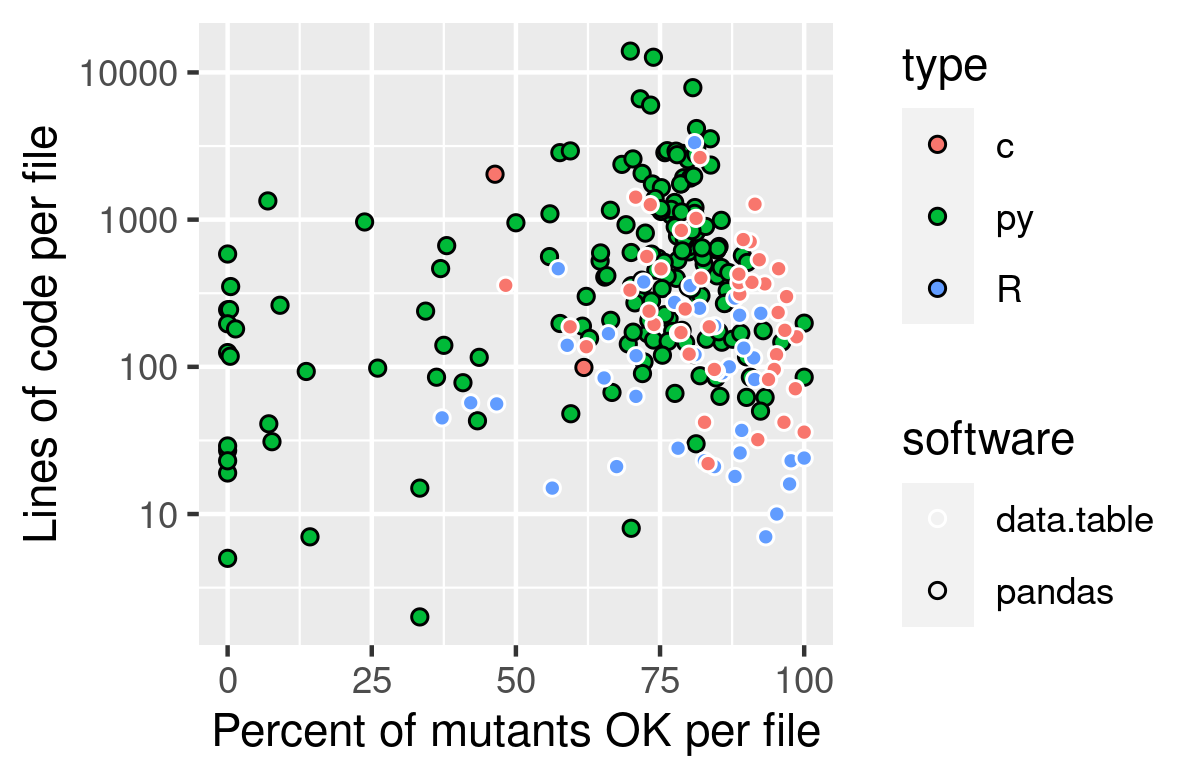
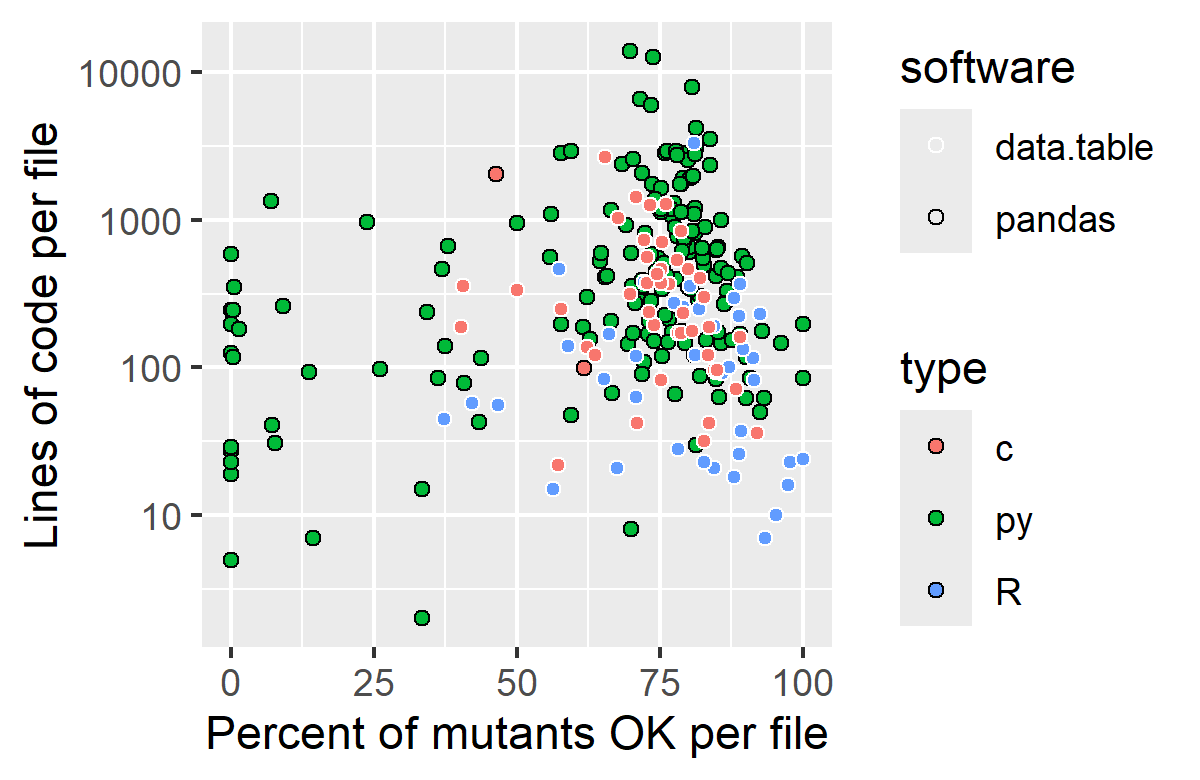
update data 04 01

diff --git a/results-figures/table-summary.tex b/results-figures/table-summary.tex
@@ -1,5 +1,5 @@
-% latex table generated in R 4.3.2 by xtable 1.8-4 package
-% Thu Mar 28 23:48:46 2024
+% latex table generated in R 4.4.0 by xtable 1.8-4 package
+% Wed Apr  3 16:24:11 2024
 \begin{tabular}{llrrrrrrrrr}
   \hline
 Software & Type & Files & Lines & Lines/File & Mutated & M\% & Mutants/Line & Mutants & MutantsOK & MOK\% \\ 
@@ -8,7 +8,7 @@ pandas & py & 168 & 161,380 & 960.6 & 46,089 & 28.6 & 2.9 & 132,614 & 95,962 & 7
   pandas & c &  5 & 2,666 & 533.2 & 1,313 & 49.2 & 6.2 & 8,090 & 3,893 & 48.1 \\ 
   pandas & total & 173 & 164,046 & 948.2 & 47,402 & 28.9 & 3.0 & 140,704 & 99,855 & 71.0 \\ 
   data.table & R & 40 & 8,354 & 208.8 & 6,336 & 75.8 & 5.4 & 34,146 & 26,928 & 78.9 \\ 
-  data.table & c & 43 & 18,037 & 419.5 & 12,178 & 67.5 & 7.4 & 89,920 & 74,373 & 82.7 \\ 
-  data.table & total & 83 & 26,391 & 318.0 & 18,514 & 70.2 & 6.7 & 124,066 & 101,301 & 81.7 \\ 
+  data.table & c & 43 & 18,037 & 419.5 & 12,178 & 67.5 & 7.4 & 89,920 & 65,078 & 72.4 \\ 
+  data.table & total & 83 & 26,391 & 318.0 & 18,514 & 70.2 & 6.7 & 124,066 & 92,006 & 74.2 \\ 
    \hline
 \end{tabular}

diff --git a/results-figures/table-useful-checks.tex b/results-figures/table-useful-checks.tex
@@ -1,5 +1,5 @@
-% latex table generated in R 4.3.2 by xtable 1.8-4 package
-% Fri Mar 29 00:01:22 2024
+% latex table generated in R 4.4.0 by xtable 1.8-4 package
+% Wed Apr  3 16:24:39 2024
 \begin{tabular}{lr}
   \hline
 check & count \\ 
@@ -8,8 +8,8 @@ NOTE:R code for possible problems & 842 \\
   WARNING:whether package ‘data.table’ can be installed & 577 \\ 
   ERROR:re-building of vignette outputs & 420 \\ 
   WARNING:for code/documentation mismatches & 213 \\ 
-  ERROR:examples & 179 \\ 
-  ERROR:files in ‘vignettes’ & 168 \\ 
+  ERROR:examples & 175 \\ 
+  ERROR:files in ‘vignettes’ & 171 \\ 
   WARNING:S3 generic/method consistency & 19 \\ 
   WARNING:replacement functions &  6 \\ 
   NOTE:whether the namespace can be loaded with stated dependencies &  6 \\ 
